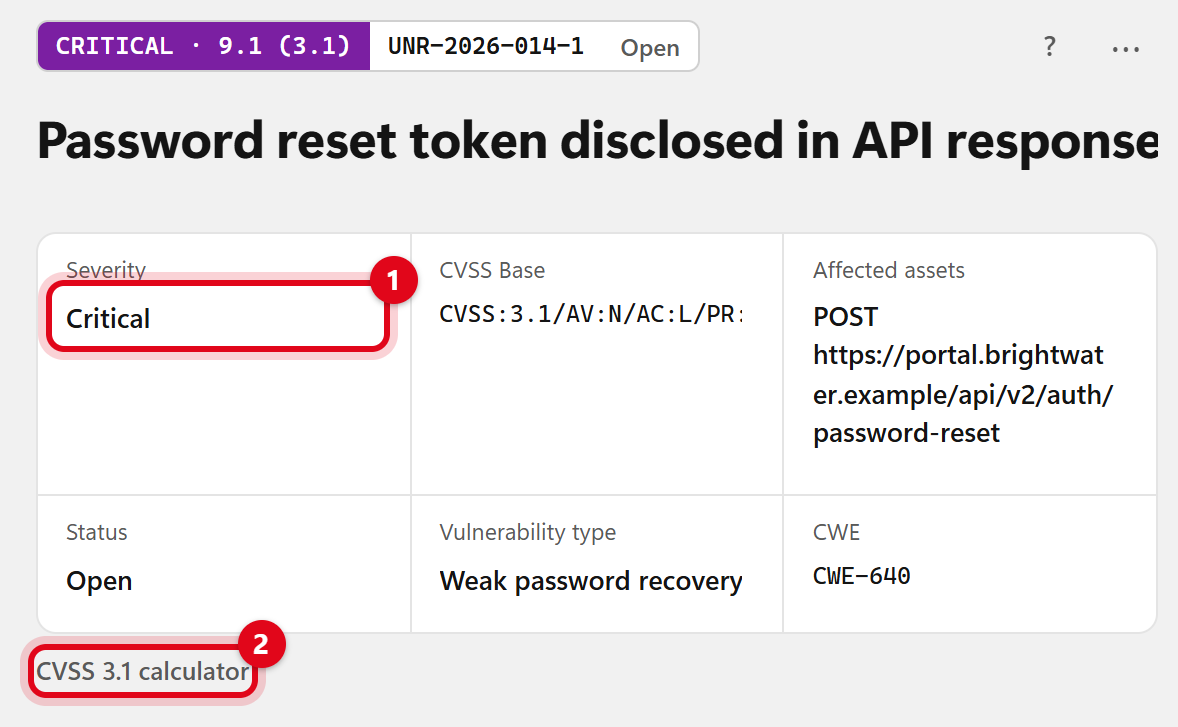
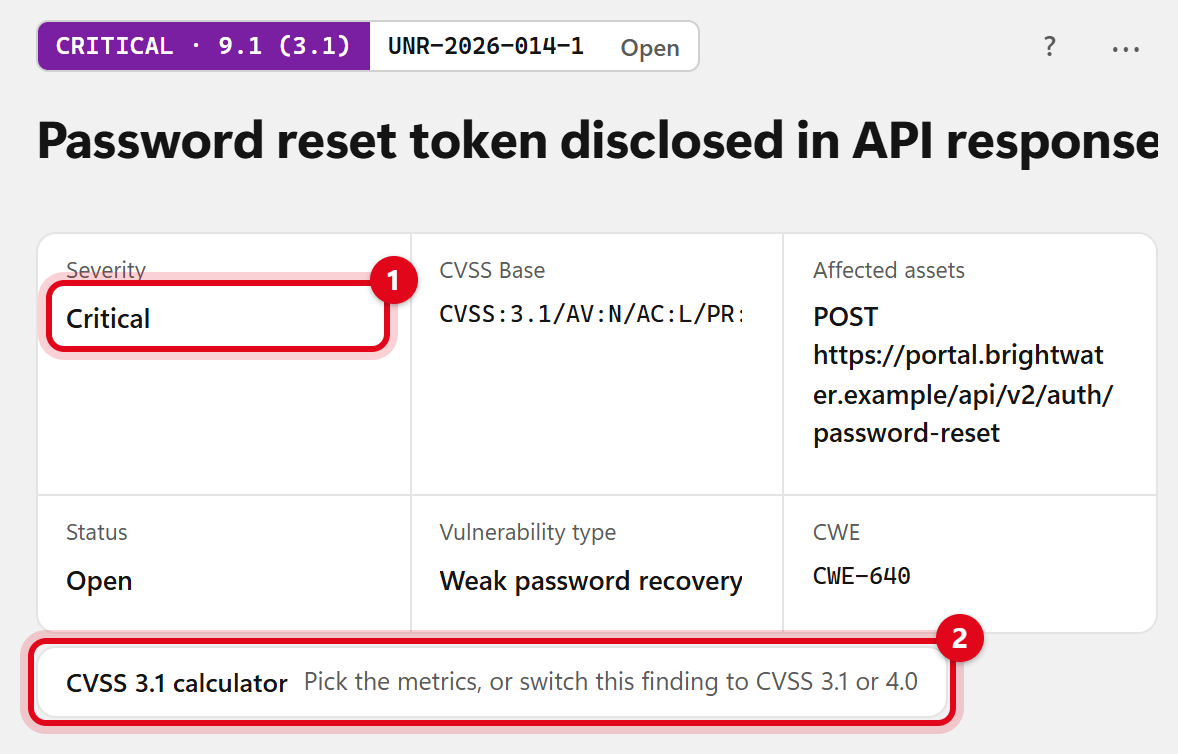
Editor: show the CVSS calculator as a button
It was a small grey line that was easy to miss. It now reads as a button
with a short note that it holds the metrics and the version switch.

diff --git a/src/app/style.css b/src/app/style.css
@@ -645,7 +645,11 @@ button:disabled:not(.secondary):not(.ghost):not(.linkish) { background: var(--pa
 .facts textarea { width: calc(100% + 6px); margin-left: -6px; padding: 3px 5px; border-color: transparent; background: transparent; font-weight: 500; font-size: 13.5px; line-height: 1.45; resize: none; min-height: 0; }
 .facts textarea:hover { border-color: var(--line-strong); }
 .finding > .cvss-calc { margin: -2px 0 22px; padding: 0; border: 0; background: transparent; }
-.finding > .cvss-calc > summary { display: inline-block; font-weight: 500; font-size: 12.5px; color: var(--muted); }
+/* The calculator is a visible button: it holds the metrics and the CVSS version switch. */
+.finding > .cvss-calc > summary { display: inline-flex; align-items: center; gap: 8px; font-weight: 600; font-size: 13px; color: var(--fg); padding: 7px 14px; border: 1px solid var(--line); border-radius: var(--radius); background: var(--panel); }
+.finding > .cvss-calc > summary:hover { border-color: var(--fg); }
+.finding > .cvss-calc > summary .hint { font-weight: 400; }
+.finding > .cvss-calc[open] > summary { margin-bottom: 10px; }
 .finding > .cvss-calc[open] { padding: 10px 14px; border: 1px solid var(--line); background: var(--panel); border-radius: var(--radius); }
 .finding > .facts { margin-bottom: 8px; }
 .format-help { margin: 8px 0 0; }

diff --git a/src/editor/editor.js b/src/editor/editor.js
@@ -1322,7 +1322,7 @@ export function createEditor(root, { exportDocx, appVersion, maxFindings = LIMIT
       } },
       ...['3.1', '4.0'].map((v) => h('option', { value: v, selected: v === version }, `CVSS ${v}`)));
     const calculator = h('details', { class: 'cvss-calc', 'data-testid': 'cvss-calculator' },
-      h('summary', {}, `CVSS ${version} calculator`),
+      h('summary', {}, `CVSS ${version} calculator`, h('span', { class: 'hint' }, 'Pick the metrics, or switch this finding to CVSS 3.1 or 4.0')),
       h('label', { class: 'field' }, h('span', { class: 'label' }, 'CVSS version for this finding'), versionSelect),
       version === '4.0' ? h('p', { class: 'hint' }, 'Base metrics only (CVSS-B). Threat, Environmental and Supplemental metrics are not supported.') : null,
       h('div', { class: 'cvss-grid' }, ...selects));
